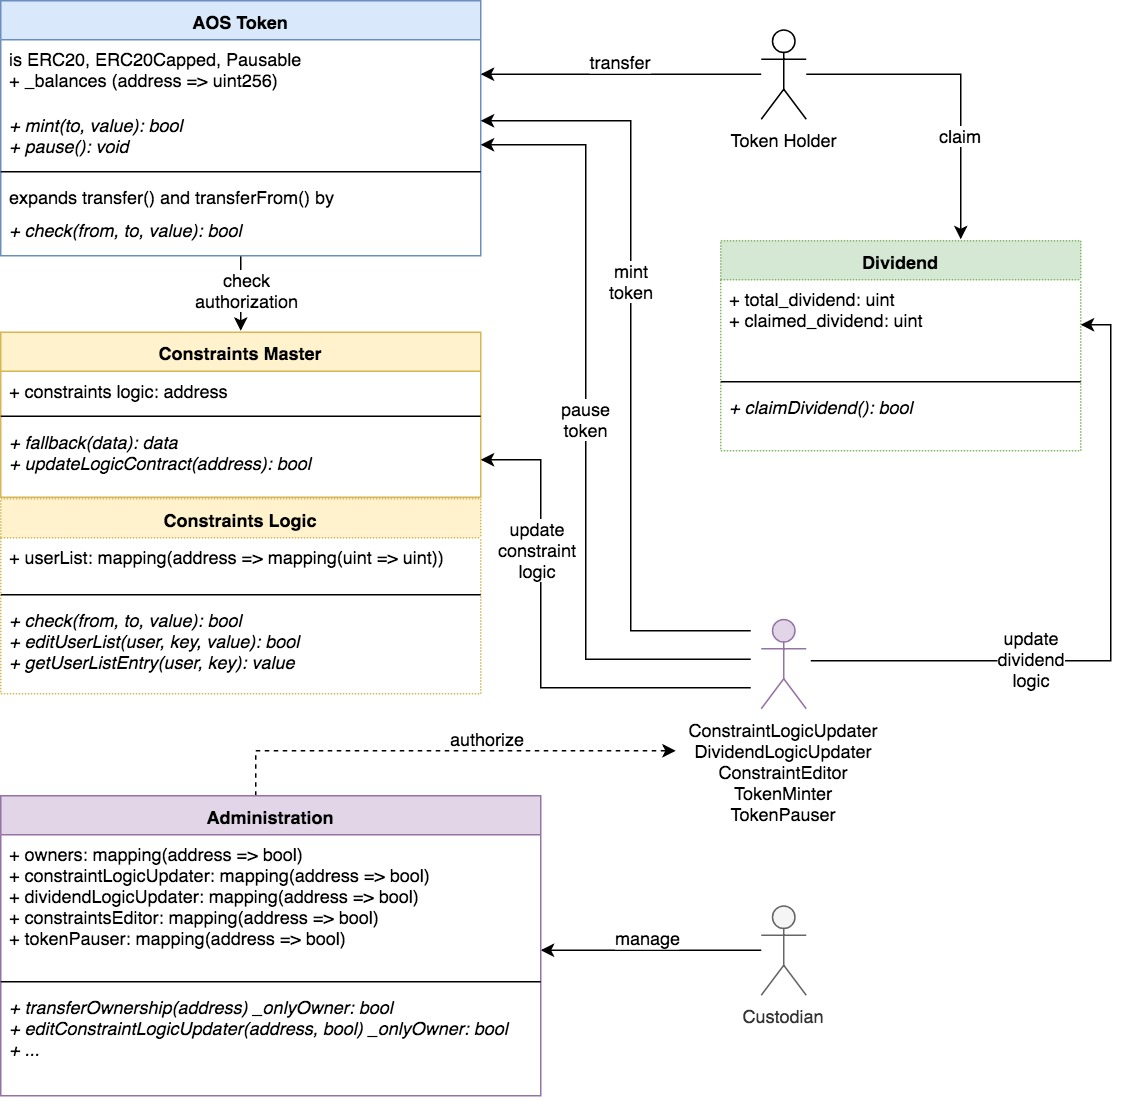
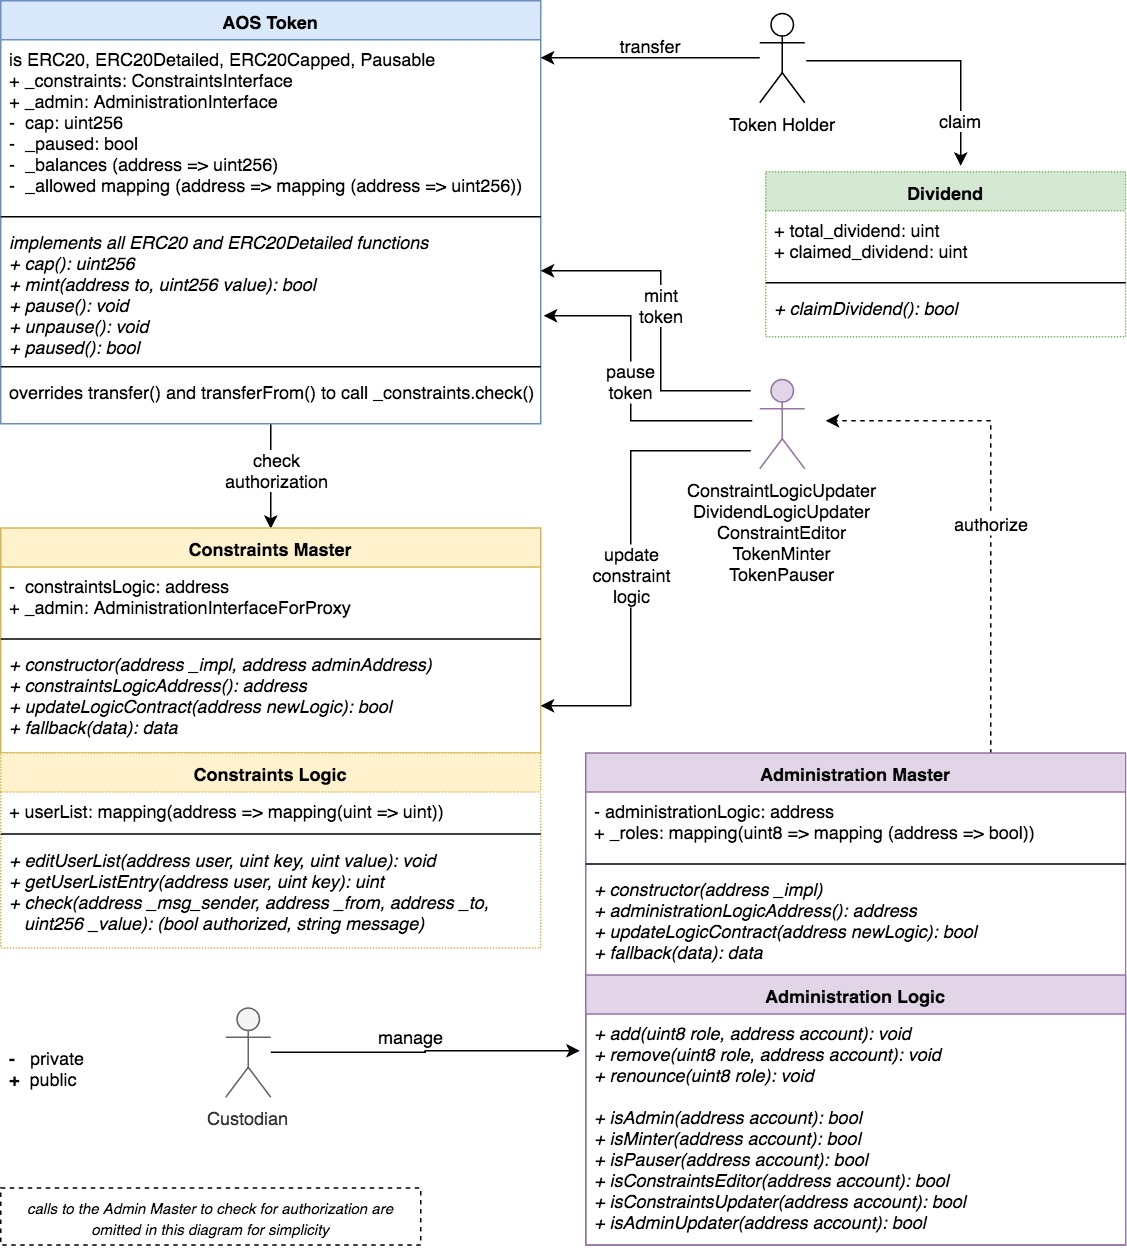
update architecture and README, action list

diff --git a/README.md b/README.md
@@ -6,29 +6,44 @@ There are 4 main components:
 
 1. _AOS Token Contract_  
 2. _Constraint Logic Contract_ (CLC)  
-3. _Dividend Contract_         (DC)  
-4. _Administration Contract_
+3. _Administration Logic Contract_ (ALC)
+4. _Dividend Contract_         (DC)  
+
 
 ##
 
-   CLC and CD will both be made **updatable** through the use of proxy contracts.  
+   CLC and ALC an will both be made **updatable** through the use of proxy contracts.  
    This means that their storage data will persist when new versions are deployed.
-   
-##
-
-The Administration contract can endow addresses with one or more of these **abilities**:
-
-- **update** CLC or DC
-- **pause** AOS Token Contract
-- **edit constraints** in CLC (such as whitelist etc)
-
-
 
 #
 ### Architecture
 
 ![architecture](./resources/Azhos_Architecture.jpg "AOS Architecture")
 
+
+#
+
+#### Administration Logic Contract
+
+The Administration contract can endow addresses with one **Role** or more:
+
+- ADMIN  
+- ADMIN_UPDATER  
+- CONSTRAINTS_UPDATER  
+- MINTER  
+- PAUSER  
+- CONSTRAINTS_EDITOR 
+
+#
+
+#### Constraints Logic Contract
+
+The Constraints Logic Contract checks constraints when tokens are transferred.  
+Currently, we have checks implemented for _sending_ and _receiving_ tokens.  
+These are reflected in the **Code** enum:  
+  
+- SEND  
+- RECEIVE
 
 #
 ### Updatable contracts
@@ -53,16 +68,19 @@ We can identify 7 main interactions:
 
 **User Interaction**  
     1. transfer AOS token  
-    2. claim dividend 
+    2. claim dividend
  
 **Updates**  
     3. update CLC   
-    4. update DC
+    4. update ALC
 
 **Admin**  
-    5. transfer admin ownership  
-    6. edit authorized addresses  
-    7. edit userList (i.e. whitelist)
+    5. edit roles  
+    6. renounce role  
+    7. edit userList (i.e. whitelist)  
+    8. minting  
+    9. pausing and unpausing
+    
 
 ##
 #### 1. transfer AOS token
@@ -91,41 +109,30 @@ We then register the new contract address with the master contract (proxy).
 ![contract_update](./resources/contract_update.jpg "update contstraints logic contract")
 
 ##
-#### 4. update dividend contract
-
-Updating the dividend contract includes providing the new contract with enough funds to satisfy all token holders' claims.  
+#### 4. update admin contract
 
 The process is almost identical to the one showing the constraint logic contract update, so it is omitted here.
 
 ##
-#### 5. transfer admin ownership
+#### 5. edit roles
 
-Ownership can only be transferred, not granted.  
-There can be group of owners at the inception of the _Administration_ contract.  
-This achieves a diversification of both risk (loss of private key) and responsibility (bad actor).
-
-Transferring ownership from one address to a new one is achieved by simply calling the   
+Roles can be edited only by the admin using
 ```
-transferOwnership(address to)
+function add(uint8 role, address account) _onlyAdmins public
 ```
- function, given that the caller is an owner himself.
+and
+```
+function remove(uint8 role, address account) _onlyAdmins public
+```
+which can be found in the admin contract
 
 ##
-#### 6. edit authorized addresses
+#### 6. renounce role
 
-Owners are authorised to edit the various mappings regulating administrative abilities.
-
-In order to change an entry, owners can call one of the  
-
+Every bearer of a role can renounce that role any time by calling
 ```
-edit<Role>(address a, bool authorised) 
+function renounce(uint8 role) public
 ```
-functions in the Administration Contract (see [Architecture](#architecture))  
-\<Role> can be replaced by:  
-- ConstraintLogicUpdater  
-- DividendLogicUpdater  
-- ConstraintsEditor (i.e. whitelist)  
-- TokenPauser
 
 ##
 #### 7. edit userList (whitelist)
@@ -140,6 +147,24 @@ function in the CLC like this:
 ![userlist_edit](./resources/userlist_edit.jpg "edit userList (whitelist)")
 
 ##
+#### 8. minting
+
+Only accounts bearing the role of **MINTER** can mint tokens using this function in the CompliantToken:
+```
+function mint(address to, uint256 value) external returns (bool);
+```
+
+##
+#### 9. pausing and unpausing
+
+Only accounts bearing the role of **PAUSER** can pause or unpause the token contract  
+using these functions in the CompliantToken:
+```
+function pause() external;
+
+function unpause() external;
+```
+
 
 #
 ### Contract descriptions
